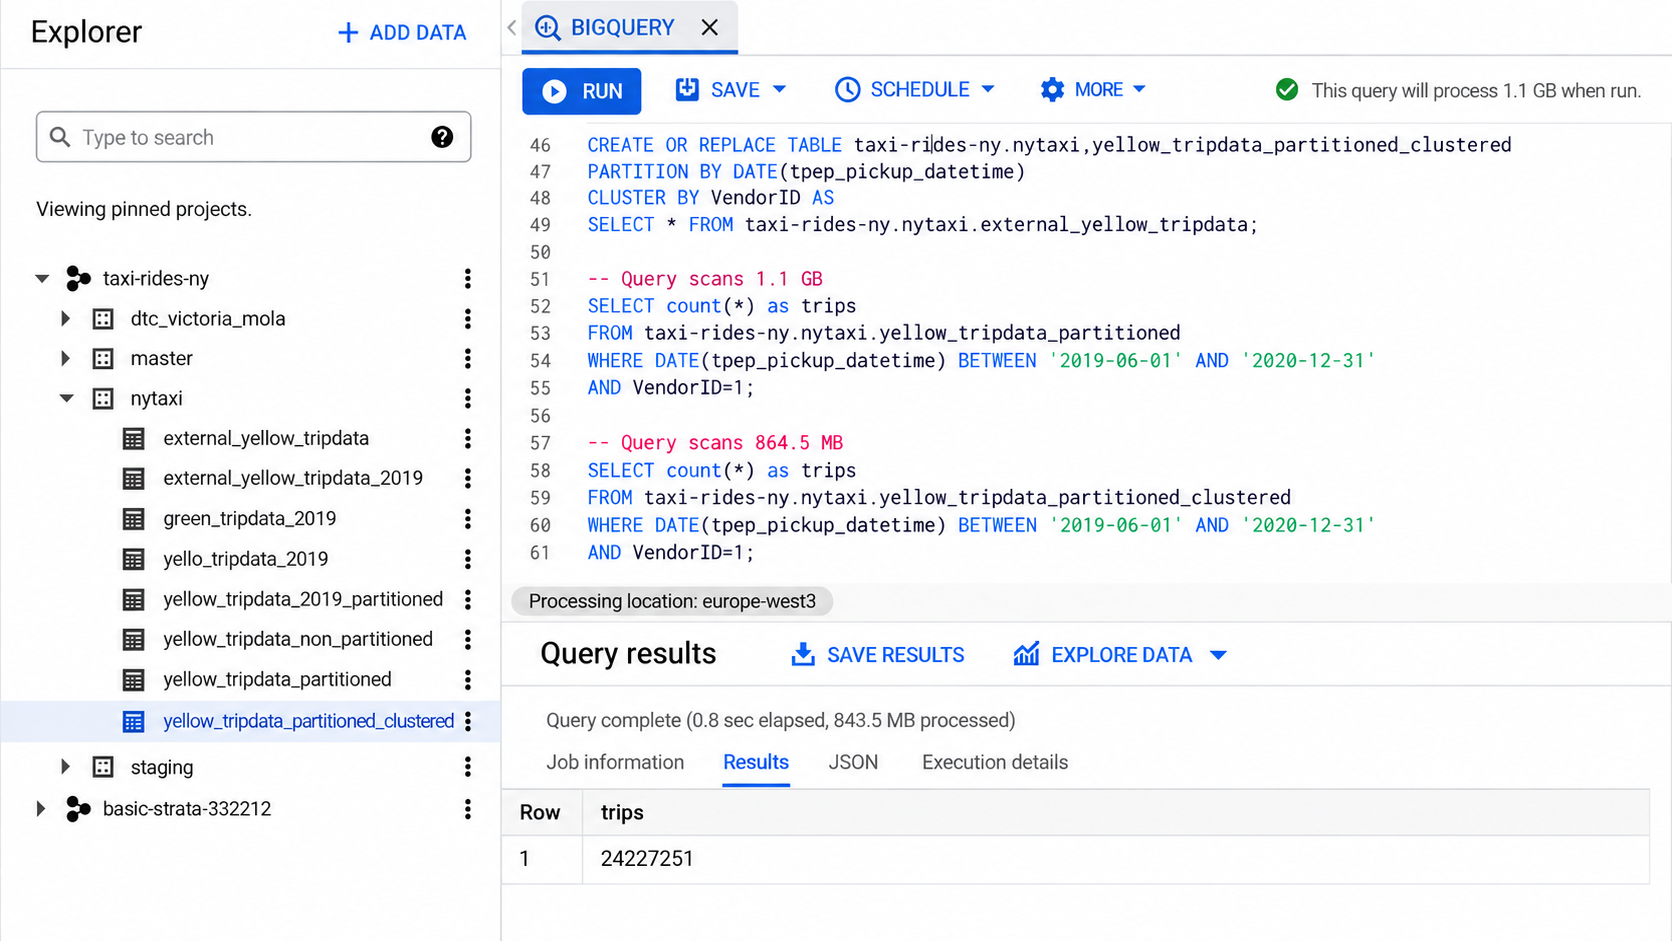
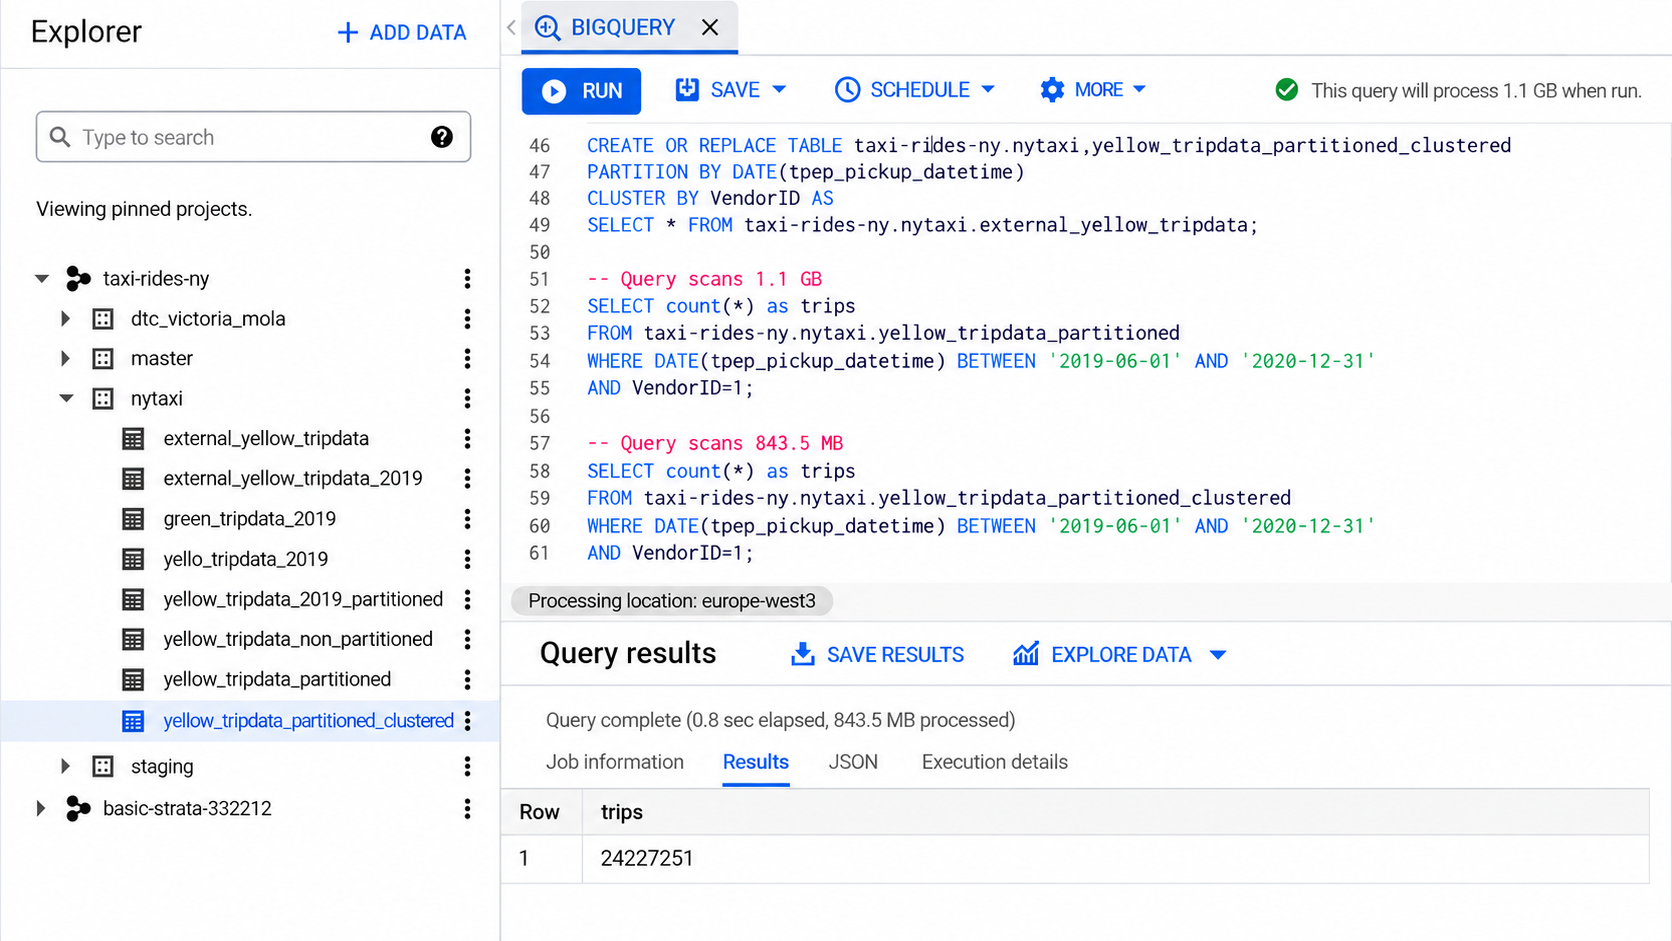
Repair warehouse pruning screenshot facts

diff --git a/cohorts/2027/2026-09-08-imagegen-repair-provenance.md b/cohorts/2027/2026-09-08-imagegen-repair-provenance.md
@@ -21,6 +21,33 @@ before publication. Original JPGs and bounded crops remain preserved.
 The imagegen outputs are stored in the local generated-image directory under
 `/home/alexey/.codex/generated_images/01a08261-323e-7721-9a78-009063449c6c/`.
 
+## Follow-up correction after independent review of `04f9c77`
+
+Independent review rejected the two warehouse candidates from the original
+batch: the partition-pruning candidate retained a red editor marker and the
+wrong `9.4 GB` result, while the cluster-pruning candidate annotated the
+clustered query as `864.5 MB`. Both were regenerated with the built-in
+imagegen tool from the original JPG and bounded crop. The previous crisp PNG
+was supplied only as a layout/composition reference. No enlarged or sharpened
+derivative was used as an imagegen source.
+
+The replacement outputs were inspected at native `1672×941` resolution and at
+an 800px lesson-size render before copying them over the published paths.
+Original JPGs and bounded crops remain unchanged. The new outputs are stored
+under `/home/alexey/.codex/generated_images/01a0827f-adb1-7a43-8316-5dbbd14a2493/`.
+
+| Published target | Original JPG source | Bounded crop | Previous published layout reference | Imagegen output | Correction and validation |
+|---|---|---|---|---|---|
[2 lines of base64/hex data omitted]
+
+### Follow-up published hashes
+
+| File | SHA-256 |
+|---|---|
[2 lines of base64/hex data omitted]
+
 ## Published hashes
 
 These hashes make the selected imagegen output auditable after copying it into
